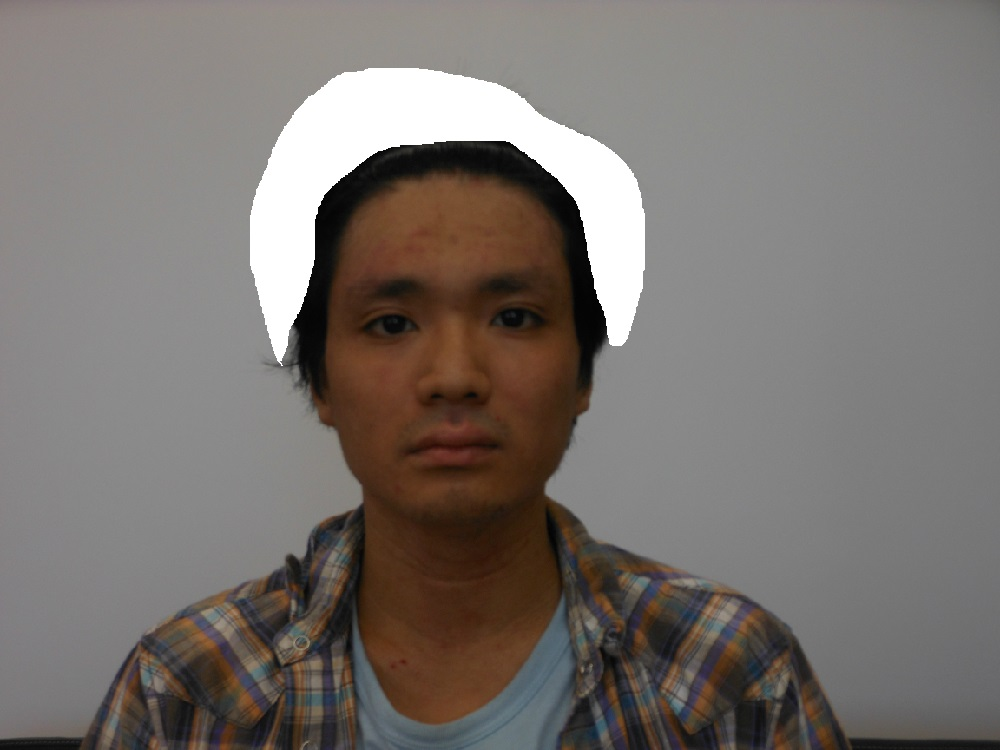
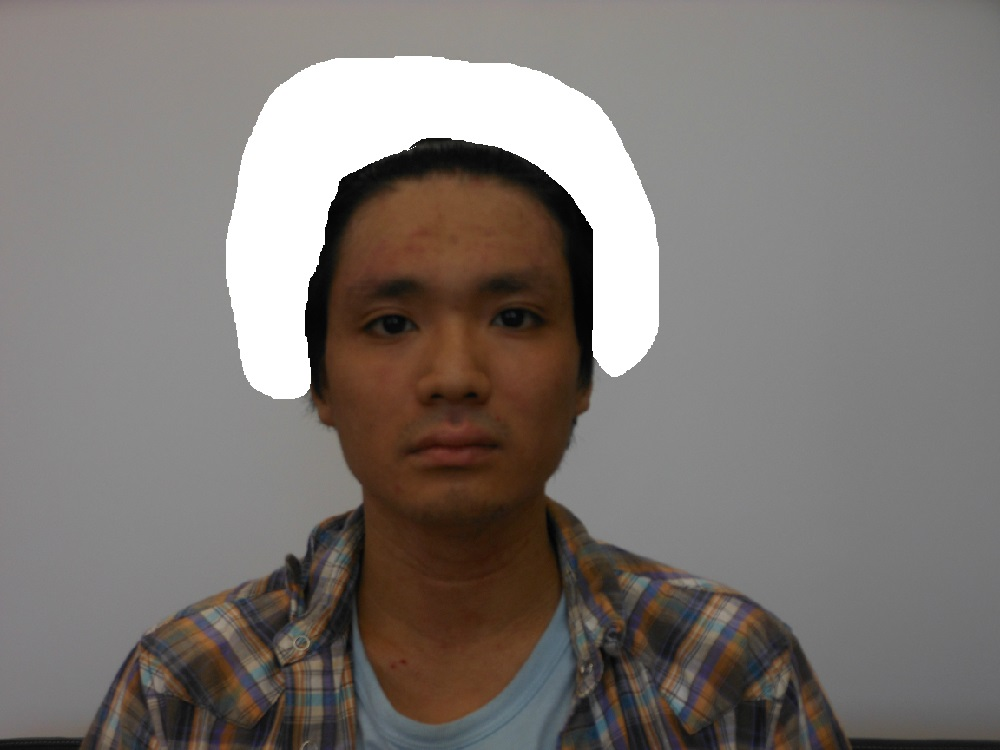
非似合い度算出プログラム ・シルエットの座標取得完了 ・四角形Aの角頂点の初期座標取得完了

diff --git a/imageProcess/calculate/Unsuitable_A.py b/imageProcess/calculate/Unsuitable_A.py
@@ -13,13 +13,23 @@ import numpy as np
 class Unsuitable_A(object):
 	#四角形Aを作成
 	#synImg : 合成後の画像(３チャンネル)
-	#h2 : ヘアスタイルと顔画像の合成後の顎先の座標(リスト)
-	def cleatSquar_A(self, synImg, h2):
+	#silBottom : ヘアスタイルと顔画像の合成後の顎先の座標(リスト)
+	def cleatSquar_A(self, synImg, silBottom):
 		#変数宣言
 		synImg_gray = 0               #合成画像のグレースケール
-		h1 = []                       #顔＋ヘア領域のトップの座標
+		h1 = []                       #四角形Aの上角の座標
+		h2 = []                       #四角形Aの下角の座標
+		silTop = []                   #ヘア＋顔領域のトップの座標
 		backgroundRange = [120, 160]  #背景のグレースケールでの画素値の範囲
+		w1 = [0, 0]                   #四角形Aの左角の座標
+		w2 = [0, 0]                   #四角形Aの右角の座標
+		horizontalHalf = 0            #四角形Aの横対角線の長さの半分
+		silleft = []                  #ヘア＋顔領域の左側座標
+		silRight = []                 #ヘア＋顔領域の右側座標
+		height = synImg.shape[0]      #合成画像の縦のピクセル数
+		width = synImg.shape[1]       #合成画像の横のピクセル数
 
+		h2 = silBottom
 		synImg_gray = cv2.cvtColor(synImg, cv2.COLOR_RGB2GRAY)
 		#顔＋ヘア領域のトップの座標取得
 		for i in range(h2[1]+1):
@@ -28,9 +38,36 @@ class Unsuitable_A(object):
 				continue
 			else:
 				h1 = [x, i]
+				silTop = [x, i]
 				break
 
-		return h1
+		#w1, w2の初期座標の決定
+		w1[1] = int(round((float(h1[1]) + float(h2[1])) / 2.0, 0))
+		w2[1] = int(round((float(h1[1]) + float(h2[1])) / 2.0, 0))
+		horizontalHalf = int(round((float(h2[1])-float(h1[1])) * (2.0/3.0) * (1.0/2.0), 0))
+		w1[0] = h1[0] - horizontalHalf
+		w2[0] = h1[0] + horizontalHalf
+
+		#シルエットの左側座標、右側座標を求める
+		for i in range(width):
+			y = w1[1]
+			if (synImg_gray[y,i] >= backgroundRange[0]) and (synImg_gray[y,i] <= backgroundRange[1]):
+				continue
+			else:
+				silleft = [i,y]
+				break
+		for i in range(width-1,0,-1):
+			y = w1[1]
+			if (synImg_gray[y,i] >= backgroundRange[0]) and (synImg_gray[y,i] <= backgroundRange[1]):
+				continue
+			else:
+				silRight = [i,y]
+				break
+
+		
+		
+		
+
 
 
 
@@ -38,22 +75,26 @@ if __name__ == '__main__':
 	#変数宣言
 	hs3 = hairsynthesis3.HairSynthesis3()
 	us_a = Unsuitable_A()
-	h2 = []   #ヘアスタイルと顔画像の合成後の顎先の座標(リスト)
-	h1 = []   #顔＋ヘア領域のトップの座標
+	h2 = []   #四角形Aの下角の座標
+	h1 = []   #四角形Aの上角の座標
+	w1 = []   #四角形Aの左角の座標
+	w2 = []   #四角形Aの右角の座標
+	silBottom = []    # ヘアスタイルと顔画像の合成後の顎先の座標(リスト)
 	synImgNum = 0
 	synImgName = ''
 	synImg = 0  #合成後の画像
 
 	
-	h2 = hs3.synthesisMain()
+	silBottom = hs3.synthesisMain()
 	synImgNum = raw_input('非似合い度を算出したい合成画像の番号を入力してください : ')
[1 lines of base64/hex data omitted]
 	synImg = cv2.imread(synImgName)  
 	#test
-	h1 = us_a.cleatSquar_A(synImg, h2)
-	print h1, h2
-	cv2.circle(synImg, (h1[0],h1[1]), 5, (0,0,255), -1)
-	cv2.circle(synImg, (h2[0],h2[1]), 5, (0,0,255), -1)
+	st, sl, sr, sb = us_a.cleatSquar_A(synImg, silBottom)
+	cv2.circle(synImg, (st[0], st[1]), 3, (255, 0, 0), -1)
+	cv2.circle(synImg, (sl[0], sl[1]), 3, (0, 255, 0), -1)
+	cv2.circle(synImg, (sb[0], sb[1]), 3, (0, 0, 0), -1)
+	cv2.circle(synImg, (sr[0], sr[1]), 3, (0, 0, 255), -1)
 	while (True):
 		cv2.imshow('test', synImg)
 		if cv2.waitKey(1) & 0xFF == ord("q"):

diff --git a/imageProcess/test.py b/imageProcess/test.py
@@ -1,22 +1,15 @@
 #! /usr/bin/env python
 # coding: utf-8
 
-import cv2
-import numpy as np
 
-img = cv2.imread('/Users/takuya/ihairsystem/imageProcess/synthesis/result/base2/hairSyn18_front.jpeg')
-img_gray = cv2.cvtColor(img, cv2.COLOR_RGB2GRAY)
-h = img.shape[0]
-w = img.shape[1]
-for i in range(h):
-	for j in range(w):
-		if (img_gray[i,j]>=120) and (img_gray[i,j]<=160):
-			img[i,j] = [255,0,0]
-while (True):
-	cv2.imshow('test', img)
-	if cv2.waitKey(1) & 0xFF == ord("q"):
-		break
-cv2.destroyAllWindows()
+def test(a):
+	a = 0
+
+if __name__ == '__main__':
+	a = 2
+	test(a)
+	print a
+
 
 
 
